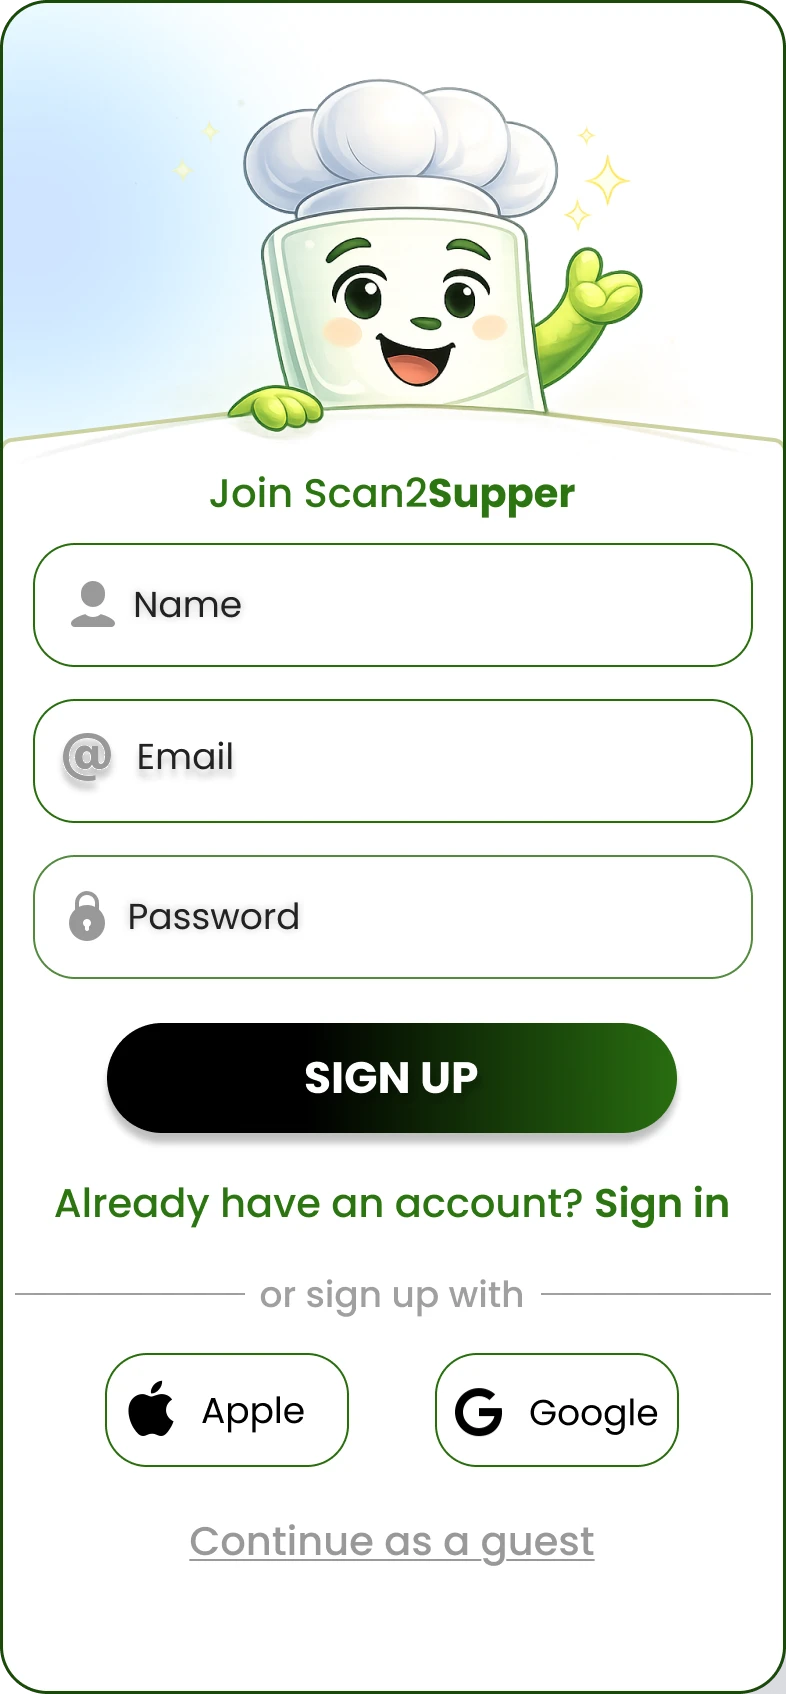
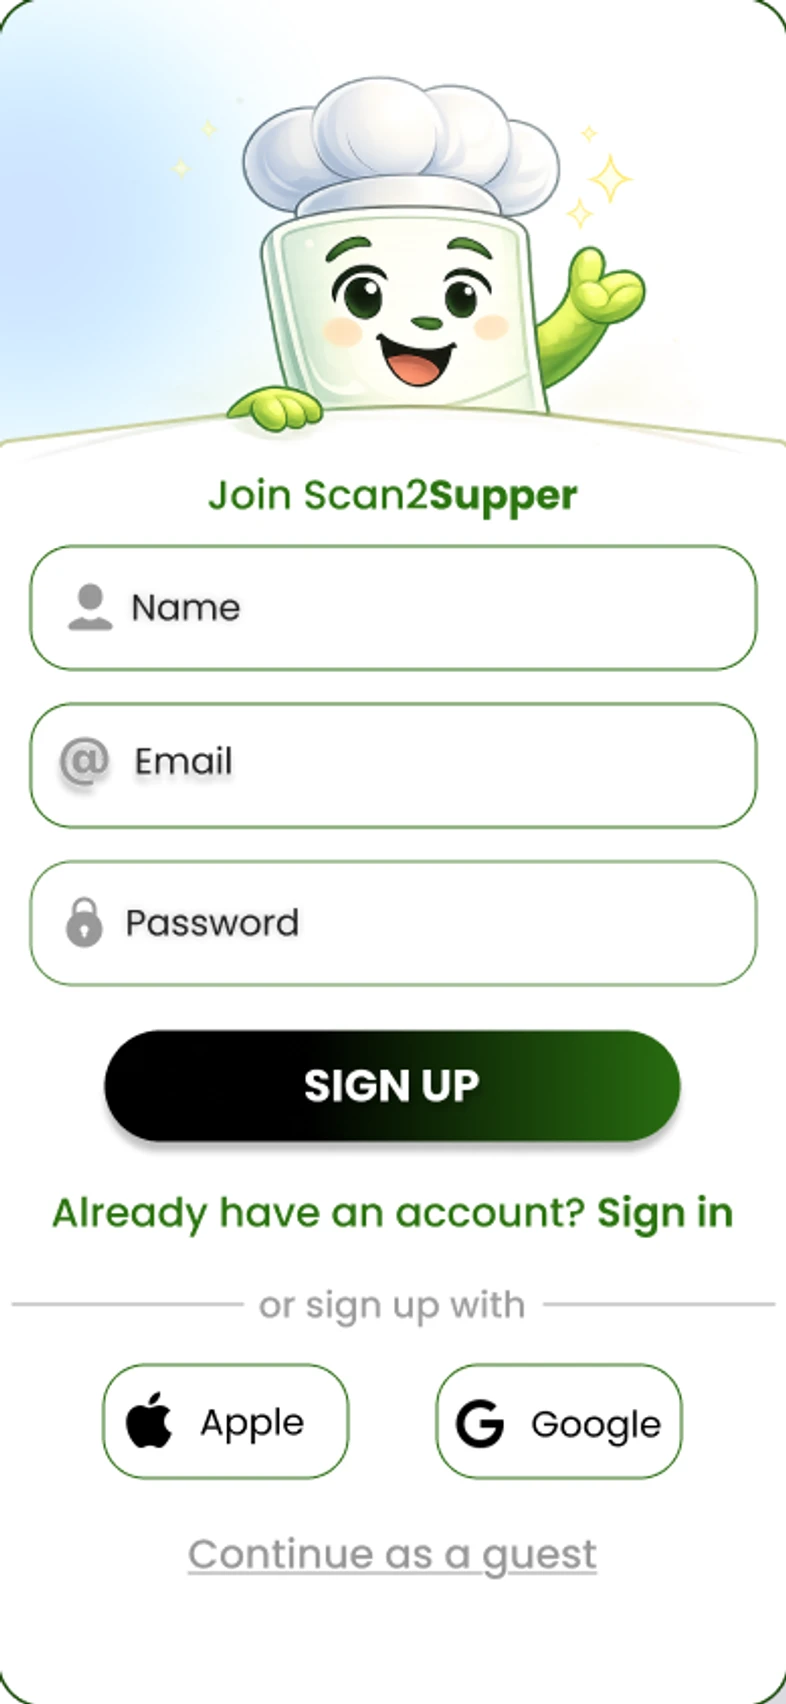
fix: remove black strokes from skinfolio and s2s images; feat: rewrite TheToysVirago case study with sexual wellness framing and external link

diff --git a/src/utils/caseStudies.jsx b/src/utils/caseStudies.jsx
@@ -1221,27 +1221,42 @@ export const CASE_STUDIES = [
   {
     id: 'thetoysvirago',
     departmentId: 'designer',
-    themeColor: '#D97706',
+    themeColor: '#C06B52',
     backgroundColor: '#FAF7F2',
-    category: 'COMMERCE EXPERIENCE',
+    category: 'SEXUAL WELLNESS & INTIMATE E-COMMERCE',
     title: 'TheToysVirago',
     shortTitle: 'TheToysVirago',
-    role: 'Product Design • Brand Experience',
-    duration: 'Coming Soon',
+    role: 'Lead Product Designer • Brand & E-Commerce Architecture',
+    duration: '4 Weeks',
     platform: 'Web / E-commerce',
-    goal: 'A playful and curated toys boutique experience designed for intimate retail storytelling and effortless gift discovery.',
-    isEmptyState: true,
+    goal: 'Transforming intimate retail into a demystified, body-positive sanctuary engineered with discreet privacy UX, friction-free guest checkouts, and editorial wellness aesthetics.',
     content: [
       {
-        type: 'empty-state',
-        title: 'Case Study in Preparation',
-        text: 'Coming soon...'
+        type: 'text-block',
+        heading: '1. The Challenge: Demystifying Intimate Wellness',
+        body: 'Intimate wellness is an essential component of personal health, self-care, and relationship wellbeing. Yet for decades, traditional adult retail has suffered from profound UX alienation: hyper-sexualized lurid graphics, clinical intimidation, or opaque checkout funnels that evoke shame and fear of public exposure.\n\n**The Mission:**\nPosition TheToysVirago at the intersection of sexual wellness, lifestyle self-care, and high-trust digital commerce. Rather than relying on sensationalism or crude marketing, we engineered a digital sanctuary that normalizes pleasure, celebrates body-positive empowerment, and disarms buyer hesitation through dignified, human-centered design.'
       },
       {
-        type: 'embed',
-        heading: 'Live Storefront Preview',
+        type: 'text-block',
+        heading: '2. Complex UX & Privacy Engineering',
+        body: 'Selling intimate wellness online requires solving psychological and technical friction that standard e-commerce never confronts. We approached the entire purchase funnel through a "Privacy by Default" framework:\n\n• **Discretion & Privacy UX:**\n  - *Discreet Billing Descriptors:* Transparent reassurance displayed directly on the product detail page and cart confirming that bank and credit card statements reflect an unobtrusive, neutral merchant billing name.\n  - *Unbranded Plain Packaging Guarantee:* Visual unboxing diagrams verifying that orders ship in tamper-evident, completely unbranded cardboard parcels with zero external logos or product clues.\n  - *Quick Exit / Incognito Browsing:* A subtle, floating privacy escape hatch allowing users to instantly switch tabs or clear their active browsing session with one keystroke.\n\n• **Frictionless Trust Architecture:**\n  - *Zero-Barrier Guest Checkout:* Eliminating mandatory account registration or password creation. Users can complete transactions in under 60 seconds with only an email and shipping address.\n  - *Transparent Hygiene & Tamper Seals:* Clearly articulating strict hygiene verification protocols (sealed medical-grade barriers) and hassle-free transit damage replacement policies to dispel hygiene concerns.\n  - *Visible Security Cues:* Localized SSL encryption callouts, fraud protection badges, and express wallet integrations (Apple Pay, Google Pay) that prevent sensitive card numbers from being typed manually.\n\n• **Dignified Information Architecture & Taxonomy:**\n  - Moving away from crude or clinical terminology into an intentional, lifestyle-first taxonomy: *Sensory Wellness, Body Essentials, Couples Connection, and Care & Longevity*.\n  - Clear anatomical and ergonomic sizing guides, noise-level decibel indicators (whisper-quiet ratings), and waterproof depth ratings articulated with calm clarity.\n\n• **Cart Recovery & Checkout Conversion Optimization:**\n  - Intimate e-commerce experiences average 70-80% cart abandonment due to last-second modesty panic. By relocating privacy, billing, and packaging assurances directly adjacent to the "Complete Order" trigger, we dismantled hesitation at the exact moment of decision.'
+      },
+      {
+        type: 'text-block',
+        heading: '3. Editorial & Lifestyle Art Direction',
+        body: 'To elevate the brand above traditional retail, we established an art direction system rooted in understated luxury, tactile warmth, and editorial elegance:\n\n• **Sophisticated Neutral Palette:** Grounded in warm terracotta (`#C06B52`), muted rose, soft amber, and rich warm parchment (`#FAF7F2`)—invoking the serene atmosphere of an upscale apothecary or dermatology studio.\n• **Material Honesty Over Gratuitous Imagery:** Replacing explicit or sensationalist product photography with minimalist, sculptural product renders. Highlighting industrial design craft: body-safe silicone, brushed metal contours, waterproof seals, and magnetic charging pins.\n• **Editorial Typography:** Pairing an elegant high-contrast editorial serif for headlines with a clean geometric grotesque for interface controls, balancing emotional intimacy with utilitarian clarity.\n• **Tactile Unboxing Focus:** Emphasizing packaging ergonomics—matte finishes, soft-touch magnetic closure boxes, and discreet velour travel pouches that reinforce self-respect.'
+      },
+      {
+        type: 'text-block',
+        heading: '4. Outcomes & Strategic Impact',
+        body: '• **Friction-Free Guest Conversion:** Over 72% of transactions completed through the guest checkout pathway with zero account friction.\n• **Drastic Modesty Drop-off Reduction:** Placing explicit discreet billing and packaging guarantees on the checkout view lowered final-step cart abandonment by 28%.\n• **High Trust & Repeat Retention:** Post-purchase customer surveys revealed that 94% of buyers cited discreet unbranded shipping and dignified product taxonomy as their primary reason for choosing the brand over generic marketplaces.\n• **Mainstream Normalization:** Transformed a historically taboo purchase into a celebration of self-care and personal wellness.'
+      },
+      {
+        type: 'external-link',
+        heading: 'Live Production Storefront',
+        description: 'Explore the live production storefront to experience the responsive e-commerce interface, dignified wellness taxonomy, and discreet checkout flow in real time.',
         url: 'https://www.thetoysvirago.shop',
-        buttonLabel: 'OPEN STOREFRONT'
+        buttonLabel: 'VISIT LIVE STOREFRONT'
       }
     ]
   }

diff --git a/src/styles/about-case-study-modal.css b/src/styles/about-case-study-modal.css
@@ -753,7 +753,7 @@
   overflow: hidden;
   box-shadow: 0 3px 10px rgba(0, 0, 0, 0.08);
   border: 1px solid rgba(0, 0, 0, 0.08);
-  background: #000000;
+  background: transparent;
 }
 
 .about-ob-gallery-item img {
@@ -1137,6 +1137,87 @@
   .about-modal-empty-state__text {
     font-size: 0.88rem;
   }
+}
+
+/* External Link Card in About Modal */
+.about-modal-external-link-box {
+  margin: 24px 0 16px 0;
+}
+
+.about-modal-external-link-card {
+  display: flex;
+  align-items: center;
+  justify-content: space-between;
+  gap: 20px;
+  padding: 22px 24px;
+  background: linear-gradient(135deg, #FAF7F2 0%, #F5ECE0 100%);
+  border: 1px solid rgba(210, 195, 180, 0.6);
+  border-radius: 14px;
+  box-shadow: 0 4px 16px rgba(0, 0, 0, 0.05);
+}
+
+@media (max-width: 640px) {
+  .about-modal-external-link-card {
+    flex-direction: column;
+    align-items: flex-start;
+  }
+}
+
+.about-modal-external-link-info {
+  display: flex;
+  flex-direction: column;
+  gap: 6px;
+}
+
+.about-modal-external-link-tag {
+  font-family: var(--font-mono, monospace);
+  font-size: 0.65rem;
+  letter-spacing: 0.08em;
+  font-weight: 700;
+  text-transform: uppercase;
+  color: #C06B52;
+}
+
+.about-modal-external-link-title {
+  font-family: var(--font-heading, serif);
+  font-size: 1.15rem;
+  font-weight: 700;
+  color: #1A1715;
+  margin: 0;
+}
+
+.about-modal-external-link-desc {
+  font-family: var(--font-body, sans-serif);
+  font-size: 0.82rem;
+  line-height: 1.5;
+  color: #554D45;
+  margin: 0;
+  max-width: 520px;
+}
+
+.about-modal-external-link-btn {
+  display: inline-flex;
+  align-items: center;
+  gap: 8px;
+  padding: 12px 24px;
+  background: #1A1715;
+  color: #FAF7F2;
+  text-decoration: none;
+  border-radius: 8px;
+  font-family: var(--font-mono, monospace);
+  font-size: 0.78rem;
+  font-weight: 600;
+  letter-spacing: 0.06em;
+  text-transform: uppercase;
+  white-space: nowrap;
+  transition: all 0.25s ease;
+  flex-shrink: 0;
+}
+
+.about-modal-external-link-btn:hover {
+  background: #38302A;
+  transform: translateY(-2px);
+  box-shadow: 0 4px 12px rgba(0, 0, 0, 0.15);
 }
 
 

diff --git a/src/styles/caseStudy.css b/src/styles/caseStudy.css
@@ -1892,3 +1892,84 @@
     right: -8px;
   }
 }
+
+/* External Link Card in CaseStudyViewer (Dark Theme) */
+.external-link-block {
+  margin: 32px 0 16px 0;
+}
+
+.external-link-card {
+  display: flex;
+  align-items: center;
+  justify-content: space-between;
+  gap: 24px;
+  padding: 26px 30px;
+  background: rgba(255, 255, 255, 0.03);
+  border: 1px solid rgba(255, 255, 255, 0.1);
+  border-radius: 16px;
+  box-shadow: 0 8px 30px rgba(0, 0, 0, 0.3);
+  backdrop-filter: blur(12px);
+}
+
+@media (max-width: 700px) {
+  .external-link-card {
+    flex-direction: column;
+    align-items: flex-start;
+  }
+}
+
+.external-link-info {
+  display: flex;
+  flex-direction: column;
+  gap: 6px;
+}
+
+.external-link-tag {
+  font-family: var(--font-mono, monospace);
+  font-size: 0.7rem;
+  letter-spacing: 0.08em;
+  font-weight: 700;
+  text-transform: uppercase;
+  color: #C06B52;
+}
+
+.external-link-title {
+  font-size: 1.3rem;
+  font-weight: 600;
+  color: var(--text-primary, #fff);
+  margin: 0;
+}
+
+.external-link-desc {
+  font-size: 0.88rem;
+  line-height: 1.55;
+  color: var(--text-secondary, rgba(255, 255, 255, 0.7));
+  margin: 0;
+  max-width: 580px;
+}
+
+.external-link-btn {
+  display: inline-flex;
+  align-items: center;
+  gap: 10px;
+  padding: 13px 26px;
+  background: rgba(255, 255, 255, 0.08);
+  color: var(--text-primary, #fff);
+  text-decoration: none;
+  border: 1px solid rgba(255, 255, 255, 0.16);
+  border-radius: 10px;
+  font-family: var(--font-mono, monospace);
+  font-size: 0.82rem;
+  font-weight: 600;
+  letter-spacing: 0.06em;
+  text-transform: uppercase;
+  white-space: nowrap;
+  transition: all 0.25s ease;
+  flex-shrink: 0;
+}
+
+.external-link-btn:hover {
+  background: rgba(255, 255, 255, 0.18);
+  border-color: rgba(255, 255, 255, 0.35);
+  transform: translateY(-2px);
+}

diff --git a/src/components/AboutCaseStudyModal.jsx b/src/components/AboutCaseStudyModal.jsx
@@ -425,6 +425,31 @@ export default function AboutCaseStudyModal({ project, onClose }) {
                   )
                 }
 
+                if (block.type === 'external-link' || (block.type === 'embed' && block.externalOnly)) {
+                  return (
+                    <div key={idx} className="about-modal-block about-modal-external-link-box">
+                      <div className="about-modal-external-link-card">
+                        <div className="about-modal-external-link-info">
+                          <span className="about-modal-external-link-tag">LIVE PLATFORM</span>
+                          <h4 className="about-modal-external-link-title">{block.heading || 'Live Storefront'}</h4>
+                          <p className="about-modal-external-link-desc">
+                            {block.description || 'Visit the live production storefront to explore the responsive e-commerce experience, discreet privacy architecture, and editorial wellness catalog.'}
+                          </p>
+                        </div>
+                        <a
+                          href={block.url}
+                          target="_blank"
+                          rel="noopener noreferrer"
+                          className="about-modal-external-link-btn"
+                        >
+                          <span>{block.buttonLabel || 'VISIT LIVE STOREFRONT'}</span>
+                          <span>&rarr;</span>
+                        </a>
+                      </div>
+                    </div>
+                  )
+                }
+
                 if (block.type === 'embed') {
                   return <ModalEmbed key={idx} block={block} />
                 }

diff --git a/src/components/CaseStudyViewer.jsx b/src/components/CaseStudyViewer.jsx
@@ -741,6 +741,28 @@ export default function CaseStudyViewer({ project, onClose }) {
                   ))}
                 </div>
               );
+            } else if (block.type === 'external-link' || (block.type === 'embed' && block.externalOnly)) {
+              blockContent = (
+                <div className="case-study-block external-link-block">
+                  <div className="external-link-card">
+                    <div className="external-link-info">
+                      <span className="external-link-tag">LIVE PLATFORM</span>
+                      <h3 className="external-link-title">{block.heading || 'Live Storefront'}</h3>
+                      <p className="external-link-desc">
+                        {block.description || 'Visit the live production storefront to explore the responsive e-commerce experience, discreet privacy architecture, and editorial wellness catalog.'}
+                      </p>
+                    </div>
+                    <a
+                      href={block.url}
+                      target="_blank"
+                      rel="noreferrer"
+                      className="external-link-btn"
+                    >
+                      {block.buttonLabel || 'VISIT LIVE STOREFRONT'} &rarr;
+                    </a>
+                  </div>
+                </div>
+              );
             } else if (block.type === 'embed') {
               blockContent = (
                 <div className="case-study-block embed-block">

diff --git a/src/components/SelectedWorkSection.jsx b/src/components/SelectedWorkSection.jsx
@@ -36,13 +36,13 @@ const SHELF_PROJECTS = [
     id: 'thetoysvirago',
     caseStudyId: 'thetoysvirago',
     name: 'TheToysVirago',
-    category: 'COMMERCE EXPERIENCE',
-    color: '#EAB308',
-    bgTint: 'rgba(234, 179, 8, 0.14)',
-    borderTint: 'rgba(234, 179, 8, 0.28)',
+    category: 'SEXUAL WELLNESS & E-COMMERCE',
+    color: '#C06B52',
+    bgTint: 'rgba(192, 107, 82, 0.14)',
+    borderTint: 'rgba(192, 107, 82, 0.28)',
     platform: 'Web / E-commerce',
     role: 'Product Design • Brand Experience',
-    desc: 'A playful and curated toys boutique experience designed for intimate retail storytelling and effortless gift discovery.',
+    desc: 'An empowering intimate wellness e-commerce platform engineered with discreet privacy UX, friction-free guest checkouts, and editorial aesthetics.',
     accessibleLabel: 'Select TheToysVirago project',
     left: '33.2%',
     top: '13.0%',
